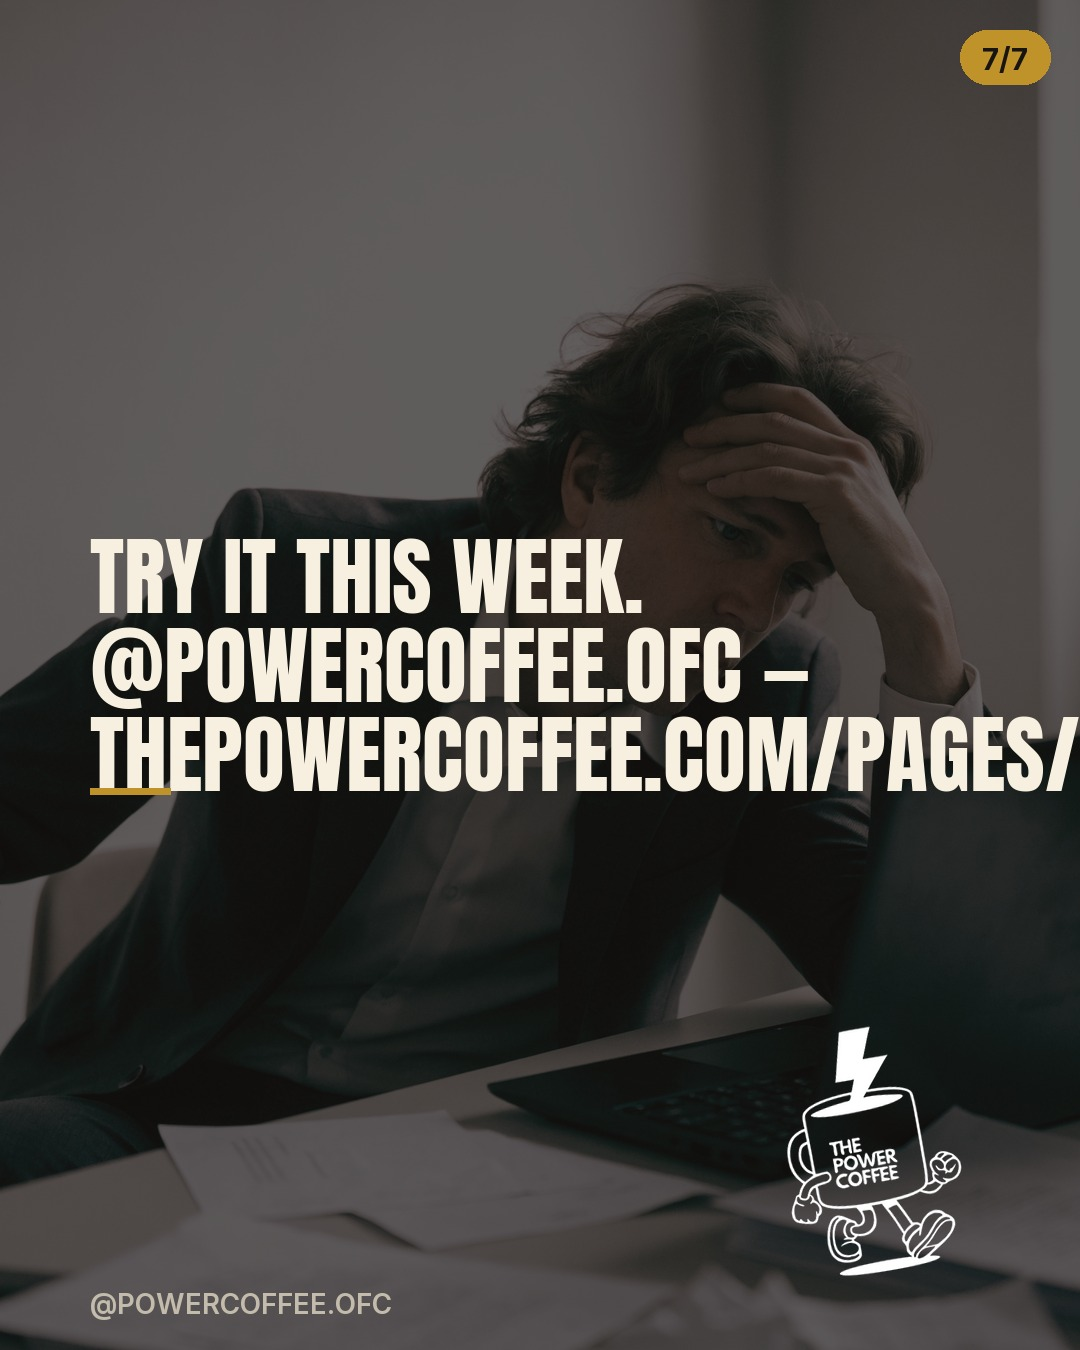
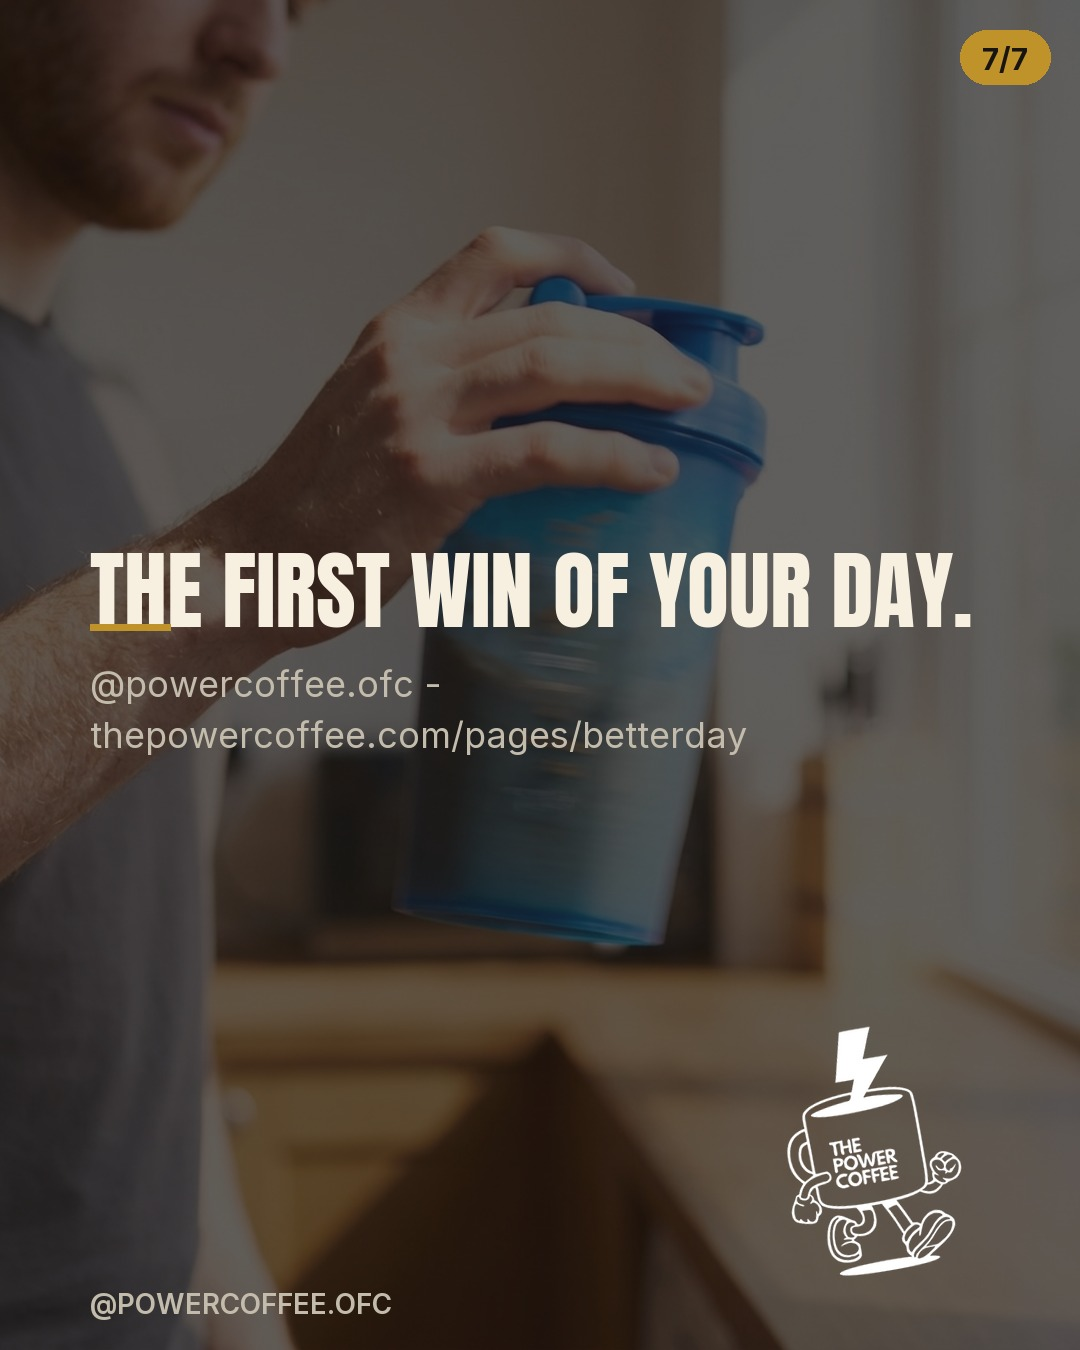
nov20: new carousel (one-scoop how-to + MORNING15), replaces Nov 13 duplicate

diff --git a/CONTENT/daily_content/nov2026_content/nov20_2026/content.md b/CONTENT/daily_content/nov2026_content/nov20_2026/content.md
@@ -3,7 +3,7 @@
 
 ---
 ## APPROVAL
-- [ ] APPROVED
+- [x] APPROVED
 
 ---
 
@@ -13,41 +13,50 @@
 ### Carousel Copy
 
 **Slide 1:**
-STILL ADDING A SECOND CUP AT 3PM?
+ONE SCOOP. THAT'S THE WHOLE CHANGE.
+How Power Coffee fits into the morning you already have.
 
 **Slide 2:**
-Lunch happens. The slump happens. You know the move — reach for another coffee and hope.
+STEP 1: MAKE YOUR COFFEE.
+The one you already love. Same mug, same machine, same time.
 
 **Slide 3:**
-Most people say the same thing: the second cup doesn't fix it. Sometimes it just costs you sleep tonight for a problem that's already here today.
+STEP 2: ADD ONE SCOOP.
+Stir it in and drink it the way you always do. No new routine to learn.
 
 **Slide 4:**
-Here's the shift: keep the morning cup you already love. Add one scoop before you drink it. Skip the 3pm one.
+WHAT'S IN THE SCOOP.
+11 ingredients, including matcha, taurine, ginkgo biloba, Ceylon cinnamon and ginger. 0g sugar. Made in the USA.
 
 **Slide 5:**
-That's it. No new ritual, no second trip to the kitchen, no third coffee by Friday.
+$1.26 A CUP.
+15 servings in every $18.90 pack.
 
 **Slide 6:**
-This week only: use code MORNING15 for 15 percent off, one-time purchases, one use per customer.
+FIRST ORDER? 15% OFF.
+Use code MORNING15 at checkout. First order only, one use per customer.
 
 **Slide 7:**
-Try it this week. @powercoffee.ofc — thepowercoffee.com/pages/betterday
+THE FIRST WIN OF YOUR DAY.
+@powercoffee.ofc - thepowercoffee.com/pages/betterday
 
 ### Caption
-Lunch hits, the slump hits, and the first move is always the same: another coffee, hope it works.
+Friday question: what would it take to make next week's mornings easier?
 
-Most people already know the second cup doesn't really fix it. It just borrows against tonight's sleep for a problem that's happening right now.
+Not a new routine. Not another drink. Just one scoop in the coffee you already make.
 
-So keep your morning coffee. Add one scoop before you drink it. Skip the 3pm one.
+Step 1: brew your coffee. Step 2: add one scoop and stir. That's it.
 
-This week: MORNING15 gets you 15 percent off, one-time purchases only, one use per customer.
+11 ingredients, 0g sugar, $1.26 a cup.
+
+First order? MORNING15 gets you 15% off (first order only, one use per customer).
 
 Not intended to diagnose, treat, cure, or prevent any disease. Individual experiences. Results vary.
 
 thepowercoffee.com/pages/betterday
 
 ### Hashtags
-#afternoonslump #coffeecrash #morningroutine #cleanenergy #functionalcoffee #postlunchslump #realfocus #thefirstwin #powercoffee #biohacking
+#morningroutine #coffeeritual #functionalcoffee #cleanenergy #onescoop #coffeelovers #fridaymotivation #thefirstwin #powercoffee #madeinusa
 
 ---
 
